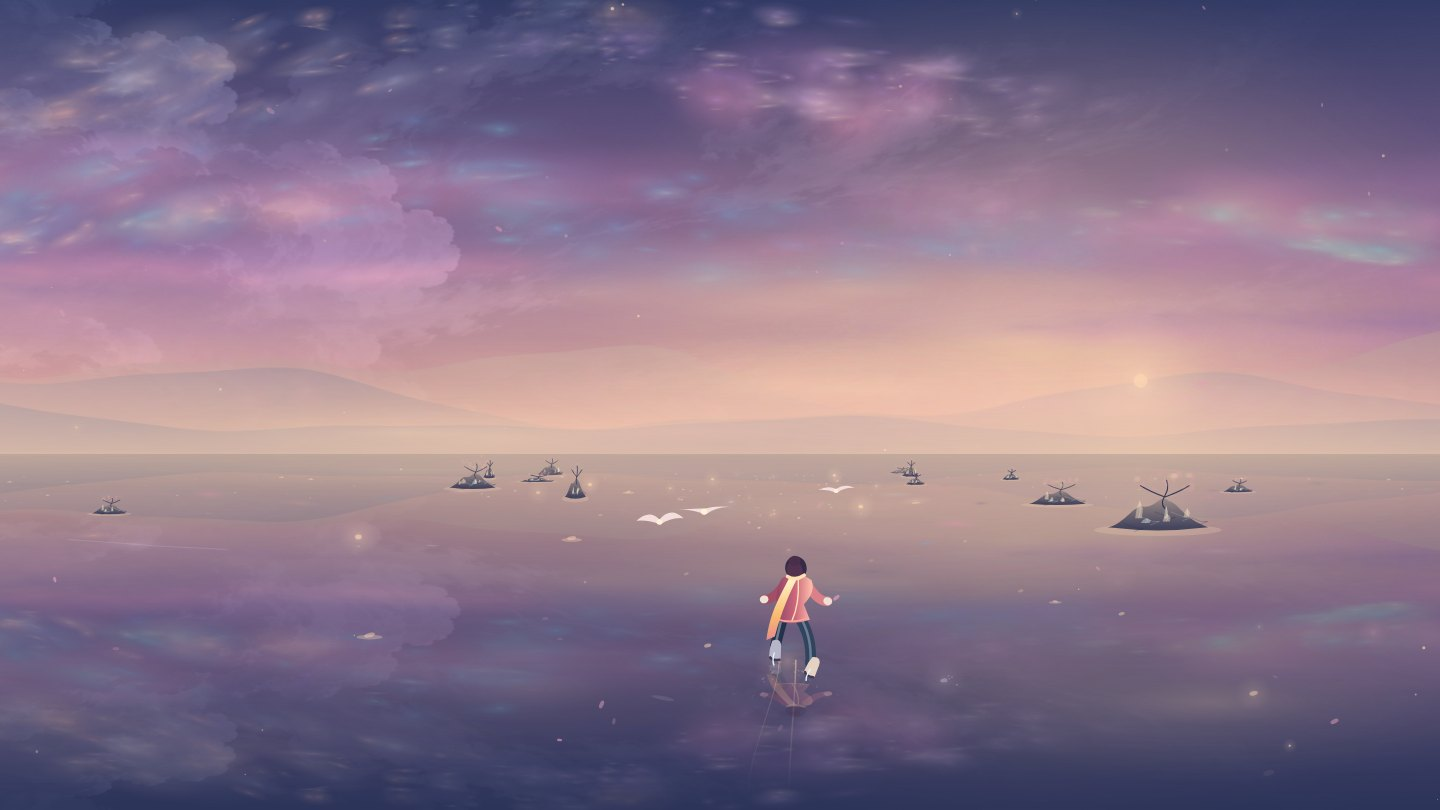
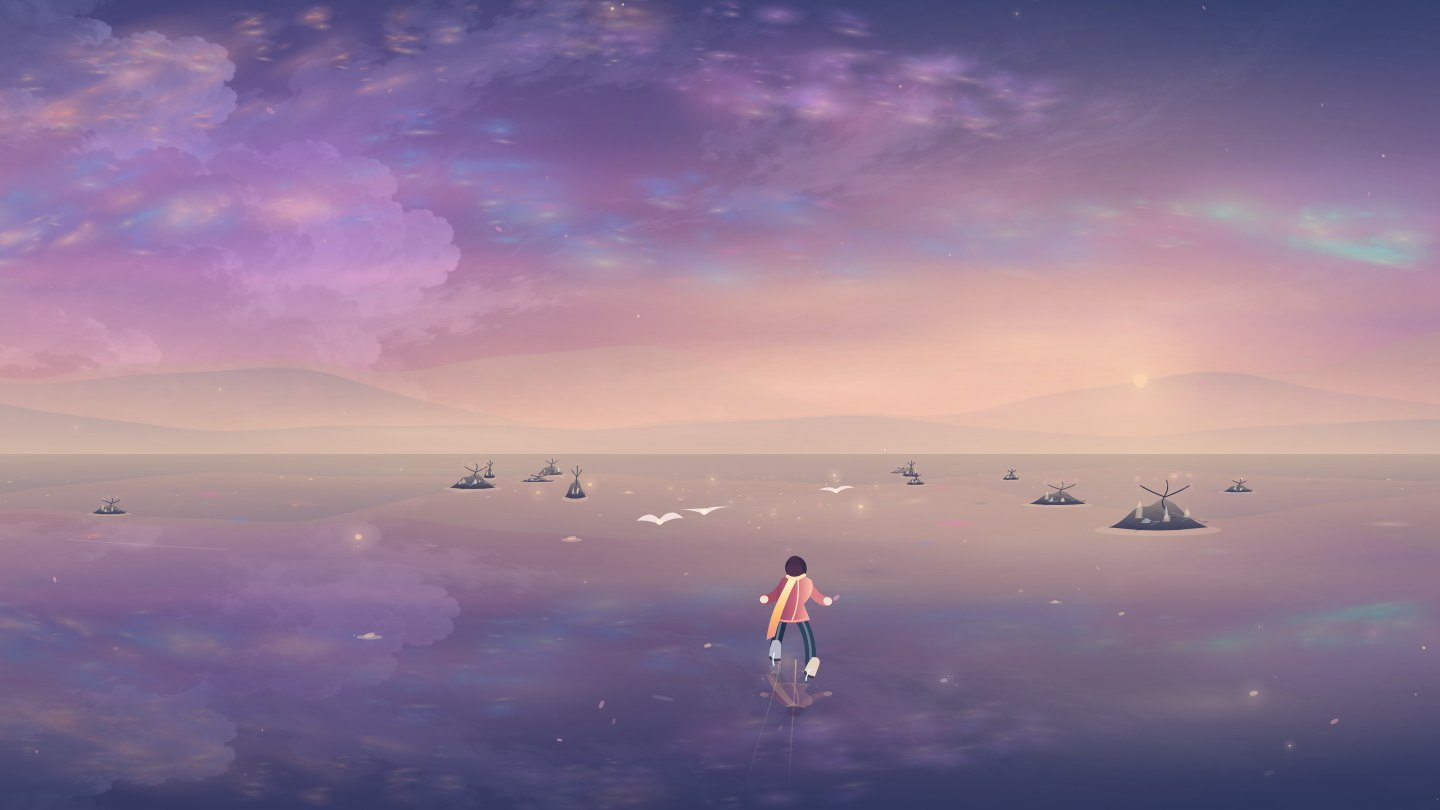
Enrich impressionist lighting and distinguish skating sound effects

diff --git a/index.html b/index.html
@@ -151,6 +151,7 @@ dialog p{color:var(--muted);font-size:13px;margin:8px 0 17px}
     <p><kbd>←</kbd> <kbd>→</kbd> 或左右拖动转向。<kbd>空格</kbd> 蹬冰，<kbd>↑</kbd> / <kbd>↓</kbd> 加速或刹停。触屏可上下拖动，或按住「加速」「刹停」。</p>
     <p><kbd>Enter</kbd> 换梦，<kbd>H</kbd> 观景，<kbd>P</kbd> 留影。靠近冰面上的光点，会遇见几句旅途中的话。</p>
     <p>松开按键后，你会凭惯性继续滑。按住刹停可以留在原地看风景。海棠、海雾、鲲与云海会依次出现。配乐会随场景变化，点右上角扬声器可以开关。</p>
+    <p><label><input type="checkbox" id="iceSound" checked> 冰面音效</label></p>
     <button class="chip" id="journal" type="button">滑行手记</button>
   </dialog>
 </main>
@@ -438,22 +439,37 @@ function paintSky(p) {
   return b;
 }
 const pigments = [
-  [[251,168,178],[255,210,156],[143,162,220],[174,118,190],[128,193,207],[252,226,184]],
-  [[245,174,152],[231,143,185],[117,161,217],[164,124,208],[120,204,198],[255,225,189]],
-  [[179,240,206],[107,185,235],[160,122,228],[249,173,193],[94,224,199],[249,227,169]],
-  [[255,192,143],[250,140,178],[133,164,241],[181,118,212],[148,211,209],[255,234,175]],
-  [[151,177,250],[208,136,227],[100,174,221],[245,158,180],[118,209,224],[255,220,160]]
+  [[252,151,182],[255,209,145],[114,144,224],[184,118,216],[100,200,214],[255,235,188]],
+  [[251,155,135],[241,119,180],[116,142,226],[175,119,222],[106,218,195],[255,221,175]],
+  [[151,255,206],[88,181,245],[172,111,246],[251,141,192],[70,230,213],[250,220,151]],
+  [[255,184,120],[248,109,165],[113,153,250],[181,104,221],[124,224,222],[255,233,172]],
+  [[127,158,250],[213,118,227],[85,180,233],[246,138,168],[104,224,213],[255,208,142]]
 ];
+const skyLighting = [
+  null,
+  {point:[.72,.72], veil:[.27,.38], tilt:-.13},
+  {point:[.76,.28], veil:[.31,.48], tilt:-.31},
+  {point:[.59,.66], veil:[.28,.34], tilt:-.21},
+  {point:[.81,.27], veil:[.36,.39], tilt:-.36}
+];
+function pigmentGlow(c,x,y,r,flatten,angle,color,alpha){
+  c.save();c.translate(x,y);c.rotate(angle);c.scale(1,flatten);
+  bloom(c,0,0,r,color,alpha);c.restore();
+}
 function paintedClouds(c,w,h,p){
   const colors=pigments[p.painting];
   // The same sky grain sits under each study, with its own colored cloud banks.
   if(art.complete&&art.naturalWidth){
-    c.save();c.globalAlpha=p.painting===3?.34:.22;c.globalCompositeOperation="luminosity";
+    c.save();c.globalAlpha=p.painting===3?.52:.36;c.globalCompositeOperation="luminosity";
     const sw=Math.min(art.naturalWidth,art.naturalHeight*w/h);
     const sh=Math.min(art.naturalHeight,sw*h/w);
     c.drawImage(art,(art.naturalWidth-sw)*hash(p.seed),0,sw,sh,0,0,w,h);c.restore();
   }
-  const banks=p.painting===3?9:7;
+  const {point,veil,tilt}=skyLighting[p.painting];
+  pigmentGlow(c,w*veil[0],h*veil[1],w*.54,.56,tilt,colors[3],.46);
+  pigmentGlow(c,w*(1-veil[0]*.54),h*.47,w*.42,.47,-tilt,colors[2],.39);
+  pigmentGlow(c,w*point[0],h*point[1],w*.44,.43,tilt,colors[0],.48);
+  const banks=p.painting===3?9:8;
   for(let bank=0;bank<banks;bank++){
     const seed=p.seed*29+bank*101;
     const x=w*(-.17+hash(seed)*1.26), y=h*(.14+hash(seed+7)*.68);
@@ -464,33 +480,46 @@ function paintedClouds(c,w,h,p){
       const bend=Math.sin(u*5.8+bank)*.38+Math.sin(u*12+bank*3)*.13;
       const cx=x+(u-.5)*span, cy=y+(bend+(v-.50)*crest)*thick;
       const r=span*(.012+hash(q+9)**2*.063);
-      const hue=blend(tone,accent,hash(q+12)*.68);
+      const hue=blend(tone,accent,hash(q+12)*.46);
       c.save();c.translate(cx,cy);c.rotate(-.17+.33*Math.cos(u*6+bank));c.scale(1,.20+hash(q+2)*.51);
-      bloom(c,0,0,r,hue,crest*(.14+hash(q+21)*.38));c.restore();
-      if(i%4===0){
-        const stroke=blend(hue,colors[5],.29+hash(q+34)*.39);
-        c.save();c.translate(cx,cy+thick*.09);c.rotate(-.17+hash(q+43)*.31);
-        c.scale(1,.12+hash(q+8)*.26);
-        bloom(c,0,0,r*.67,stroke,crest*.39);c.restore();
+      bloom(c,0,0,r,hue,crest*(.19+hash(q+21)*.39));c.restore();
+      if(i%3===0){
+        const angle=tilt+hash(q+43)*.38;
+        const warm=blend(hue,colors[5],.34+hash(q+34)*.43);
+        const shade=blend(hue,colors[2],.48);
+        pigmentGlow(c,cx-r*.09,cy-thick*.075,r*.85,.19+hash(q+8)*.31,angle,shade,crest*.29);
+        pigmentGlow(c,cx+r*.14,cy+thick*.10,r*.66,.15+hash(q+8)*.31,angle,warm,crest*.56);
+        for(let j=0;j<3;j++){
+          const bit=q+j*201, dx=(hash(bit+67)-.5)*r, dy=(hash(bit+17)-.5)*r*.44;
+          pigmentGlow(c,cx+dx,cy+dy,r*(.13+hash(bit+19)*.28),.32,angle,
+            colors[(bank+j+4)%colors.length],crest*(.22+hash(bit+97)*.30));
+        }
       }
     }
   }
+  c.save();c.globalCompositeOperation="screen";
+  pigmentGlow(c,w*point[0],h*point[1],w*.32,.37,tilt,colors[5],.38);
+  pigmentGlow(c,w*(point[0]-.15),h*(point[1]+.13),w*.33,.18,tilt,colors[1],.23);
+  c.restore();
 }
 function reflectedPigments(){
   const deep=H-horizon, mix=smooth(transition);
-  const strength=lerp(Number(Boolean(previous.painting)),Number(Boolean(current.painting)),mix);
-  if(strength<.005)return;
+  const strength=lerp(previous.painting?1:.33,current.painting?1:.33,mix);
   const before=pigments[previous.painting||0], after=pigments[current.painting||0];
-  for(let i=0;i<40;i++){
+  for(let i=0;i<52;i++){
     const offset=hash(i+612)*880-distance, z=66+wrap(offset,880);
     const seed=i+Math.floor(offset/880)*47, p=project((hash(seed+83)-.5)*640,z);
     const width=(22+hash(seed+128)*108)*p.scale;
     if(p.x+width<0||p.x-width>W)continue;
     const amount=strength*smooth((z-66)/48)*smooth((930-z)/520);
     const color=blend(before[i%6],after[i%6],mix);
-    ctx.save();ctx.translate(p.x,p.y);ctx.rotate(-.12+hash(seed+9)*.19);ctx.scale(1,.12+hash(seed+34)*.14);
-    bloom(ctx,0,0,width,color,amount*(.18+hash(seed+217)*.35));ctx.restore();
-    if(i%5===0) ellipse(ctx,p.x,p.y+deep*.006,width*.24,.75+p.scale,rgba(color,amount*.36),-.09);
+    const angle=-.15+hash(seed+9)*.24;
+    pigmentGlow(ctx,p.x,p.y,width,.12+hash(seed+34)*.14,angle,color,amount*(.24+hash(seed+217)*.35));
+    if(i%3===0){
+      const tint=blend(before[(i+3)%6],after[(i+3)%6],mix);
+      pigmentGlow(ctx,p.x+width*.18,p.y+deep*.011,width*.38,.15,-angle,tint,amount*.52);
+      ellipse(ctx,p.x-width*.21,p.y+deep*.006,width*.11,.63+p.scale,rgba(color,amount*.46),angle);
+    }
   }
 }
 const encounters = [
@@ -1016,12 +1045,29 @@ function traveler(c,x,y,scale,reflection){
   line("#ffdeb1",3,shoulderX-7,shoulderY-3,shoulderX,shoulderY+1,shoulderX+7,shoulderY-4);
   c.restore();
 }
+const iceRings=[];
+function drawIceRings(light){
+  for(let i=iceRings.length-1;i>=0;i--){
+    const {x,z,at}=iceRings[i], age=(t-at)/1.5;
+    if(age>=1){iceRings.splice(i,1);continue;}
+    const depth=z-distance;
+    if(depth<57)continue;
+    const p=project(x,depth), r=(4+age*94)*p.scale;
+    const fade=(1-age)**2;
+    if(!reduced){
+      ctx.beginPath();ctx.ellipse(p.x,p.y,r,r*.24,0,0,TAU);
+      ctx.strokeStyle=rgba(light,fade*.34);ctx.lineWidth=.9;ctx.stroke();
+    }
+    bloom(ctx,p.x,p.y,7+age*22,light,fade*.30);
+  }
+}
 function lights(light,px,py){
   const world=distance;
   for(let i=0;i<7;i++){
     const offset=i*153+99-world, z=63+wrap(offset,1071);
     const key=i+Math.floor(offset/1071)*7;
-    const p=project((hash(key+35)-.46)*210,z);
+    const worldX=(hash(key+35)-.46)*210;
+    const p=project(worldX,z);
     const x=p.x, y=p.y;
     const size=.9+p.scale*7, b=(.58+.25*Math.sin(t*2+i*3))*smooth((z-63)/17);
     if(seen.has(key)) continue;
@@ -1030,7 +1076,9 @@ function lights(light,px,py){
     ellipse(ctx,x,y+size*3,size*.62,size*.27,rgba(light,b*.35));
     if(start&&!viewingDialog()&&Math.abs(x-px)<Math.max(32,W*.037)&&Math.abs(y-py)<20){
       seen.add(key);if(seen.size>60) seen.delete(seen.values().next().value);
-      announce(poems[found++%poems.length]);note(found%5);
+      iceRings.push({x:worldX,z:distance+z,at:t});
+      announce(poems[found++%poems.length]);
+      if($("iceSound").checked)note(found%5);
     }
   }
 }
@@ -1074,6 +1122,7 @@ function render(ms) {
   particles(current,light);
   const px=W*.54+heading*W*(reduced?.009:.022);
   const py=horizon+(H-horizon)*(.61-clamp((velocity-.84)*.047,-.09,.08));
+  drawIceRings(light);
   lights(light,px,py);
   const scale=clamp(Math.min(W/1020,H/680),.64,1.32);
   trail(px,py,scale,light);
@@ -1086,6 +1135,7 @@ function render(ms) {
     const weather = !routeMode && !dreamTheme && current.index===0 && timeInDream>25 ? "薄暮 · 湖雾" : current.weather;
     if($("weather").textContent!==weather) $("weather").textContent=weather;
   }
+  updateSkateSound(paused,throttle);
   scoreTick();
   lastPose={name:current.name};
   requestAnimationFrame(render);
@@ -1095,7 +1145,7 @@ function pushOff(){
   if(kick>.22)return;
   kick=1;
   velocity=Math.min(3.15,Math.max(.85,velocity)+.8);
-  note(2);
+  skateBurst("push");
 }
 function toggleView(){
   clean=!clean;document.body.classList.toggle("clean",clean);
@@ -1124,6 +1174,116 @@ function savePhoto(){
   announce("这一刻，留在了冰面上，也收进了手记。");
 }
 let audio=null, ambient=null, windFilter=null, audioOn=false, audioRequest=0, scoreLayer=null;
+let skateAudio=null, skateCue="glide", nextSkateUpdate=0, nextSkateBurst=0;
+const skateSounds={
+  edge:{duration:.36,volume:.69,pan:.53},
+  push:{duration:.33,volume:.81,pan:.17},
+  rush:{duration:.94,volume:.73,pan:0},
+  brake:{duration:.62,volume:.78,pan:.24}
+};
+function renderSkateSample(kind, sampleRate, data){
+  const duration=data.length/sampleRate;
+  const lowRate=1-Math.exp(-TAU*330/sampleRate), midRate=1-Math.exp(-TAU*1530/sampleRate);
+  const windRate=1-Math.exp(-TAU*125/sampleRate);
+  let seed=617, low=0, mid=0, wind=0, phase=0;
+  const pulse=(time,at,decay)=>time<at?0:Math.exp(-(time-at)/decay)*Math.min(1,(time-at)*1800);
+  for(let i=0;i<data.length;i++){
+    const time=i/sampleRate, progress=time/duration;
+    seed=(Math.imul(seed,1664525)+1013904223)>>>0;
+    const noise=seed/2147483648-1;
+    low+=(noise-low)*lowRate;
+    mid+=(noise-mid)*midRate;
+    wind+=(low-wind)*windRate;
+    const grain=mid-low, frost=noise-mid;
+    let sample;
+    switch(kind){
+      case "edge": {
+        phase+=TAU*(1880-570*progress+40*Math.sin(TAU*14*time))/sampleRate;
+        const scrape=.60+.40*Math.sin(TAU*41*time)**2;
+        sample=(grain*.40+Math.sin(phase)*.070+Math.sin(phase*1.47)*.021)*scrape*Math.sin(Math.PI*progress)**1.4;
+        break;
+      }
+      case "push": {
+        const chips=pulse(time,.006,.025)+.58*pulse(time,.061,.022)+.36*pulse(time,.119,.021);
+        const crystal=Math.sin(TAU*3140*time)*.040+Math.sin(TAU*4930*time)*.020;
+        sample=(frost*.44+grain*.10+crystal)*chips;
+        break;
+      }
+      case "rush": {
+        const swell=Math.sin(Math.PI*progress)**1.7;
+        sample=(wind*1.65+low*.24)*swell*(.85+.15*Math.sin(TAU*7*time));
+        break;
+      }
+      case "brake": {
+        phase+=TAU*(195-108*progress)/sampleRate;
+        const chatter=.38+.62*Math.sin(TAU*(19*time-10*time*time))**4;
+        const grit=grain*(1-progress)*.53+low*.57+Math.sin(phase)*.067;
+        sample=grit*chatter*Math.min(1,time*46)*(1-progress)**1.45;
+        break;
+      }
+    }
+    data[i]=sample*Math.min(1,(data.length-i-1)/(sampleRate*.018));
+  }
+}
+function setupSkateAudio(){
+  const buffer=audio.createBuffer(1,audio.sampleRate*2,audio.sampleRate);
+  const data=buffer.getChannelData(0);
+  for(let i=0;i<data.length;i++){
+    const seam=Math.min(1,i/160,(data.length-1-i)/160);
+    data[i]=(Math.random()*2-1)*seam;
+  }
+  const samples={};
+  for(const [kind,{duration}] of Object.entries(skateSounds)){
+    const sample=audio.createBuffer(1,Math.round(audio.sampleRate*duration),audio.sampleRate);
+    renderSkateSample(kind,audio.sampleRate,sample.getChannelData(0));
+    samples[kind]=sample;
+  }
+  const source=audio.createBufferSource(), filter=audio.createBiquadFilter();
+  const gain=audio.createGain(), bus=audio.createGain();
+  const pan=audio.createStereoPanner?.();
+  source.buffer=buffer;source.loop=true;
+  filter.type="bandpass";filter.Q.value=.8;
+  gain.gain.value=0;bus.gain.value=$("iceSound").checked?1:0;
+  source.connect(filter).connect(gain);
+  if(pan)gain.connect(pan).connect(bus);
+  else gain.connect(bus);
+  bus.connect(ambient);
+  source.start();
+  skateAudio={samples,filter,gain,pan,bus};
+}
+function skateBurst(kind){
+  if(!audioOn||audio.state!=="running"||!skateAudio||!$("iceSound").checked)return;
+  const now=audio.currentTime;
+  if(now<nextSkateBurst&&kind!=="push")return;
+  nextSkateBurst=now+.22;
+  const {volume,pan}=skateSounds[kind];
+  const source=audio.createBufferSource(), gain=audio.createGain();
+  const direction=pan&&audio.createStereoPanner?.();
+  source.buffer=skateAudio.samples[kind];
+  gain.gain.value=volume;
+  source.connect(gain);
+  if(direction){
+    direction.pan.value=edgeLean*pan;
+    gain.connect(direction).connect(skateAudio.bus);
+  }else gain.connect(skateAudio.bus);
+  source.onended=()=>{source.disconnect();gain.disconnect();if(direction)direction.disconnect();};
+  source.start(now);
+}
+function updateSkateSound(paused,throttle){
+  if(!skateAudio||!audioOn||audio.state!=="running"||audio.currentTime<nextSkateUpdate)return;
+  const now=audio.currentTime;
+  nextSkateUpdate=now+.032;
+  const speed=start&&!paused?clamp(velocity/2.4,0,1):0;
+  const edge=Math.abs(edgeLean);
+  const cue=speed<.06?"glide":brake>.33?"brake":throttle>.55?"rush":edge>(skateCue==="edge"?.34:.51)?"edge":"glide";
+  if(cue!==skateCue && cue!=="glide")skateBurst(cue);
+  skateCue=cue;
+  const stroke=.84+.16*Math.sin(stridePhase*2)**2;
+  const pressure=.023+speed*.038+edge*.055+brake*.034;
+  skateAudio.gain.gain.setTargetAtTime(speed**.75*pressure*stroke,now,paused?.07:.11);
+  skateAudio.filter.frequency.setTargetAtTime(510+speed*540+edge*470-brake*130,now,.13);
+  skateAudio.pan?.pan.setTargetAtTime(edgeLean*.28,now,.14);
+}
 const scores = [
   {chord:[48,55,60,64], melody:[72,null,76,79,76,null,74,72], beat:1.48, wind:590, voice:"sine"},
   {chord:[45,52,57,59], melody:[69,null,71,null,64,67,null,64], beat:1.93, wind:220, voice:"sine"},
@@ -1184,9 +1344,9 @@ function note(index){
   if(!audioOn||!audio||audio.state!=="running")return;
   const osc=audio.createOscillator(), envelope=audio.createGain(), now=audio.currentTime;
   osc.type="sine";osc.frequency.value=[261.63,329.63,392,440,523.25][index];
-  envelope.gain.setValueAtTime(.0001,now);envelope.gain.exponentialRampToValueAtTime(.095,now+.16);
+  envelope.gain.setValueAtTime(.0001,now);envelope.gain.exponentialRampToValueAtTime(.15,now+.16);
   envelope.gain.exponentialRampToValueAtTime(.0001,now+1.9);
-  osc.connect(envelope).connect(audio.destination);osc.start(now);osc.stop(now+2);
+  osc.connect(envelope).connect(ambient);osc.start(now);osc.stop(now+2);
 }
 function syncSoundButton(){
   $("sound").setAttribute("aria-pressed",String(audioOn));
@@ -1207,6 +1367,7 @@ async function startAudio(){
       windFilter=audio.createBiquadFilter();
       wind.buffer=buffer;wind.loop=true;windFilter.type="lowpass";windFilter.frequency.value=410;
       wind.connect(windFilter).connect(ambient);wind.start();
+      setupSkateAudio();
     }
     await audio.resume();
     if(request!==audioRequest)return;
@@ -1264,6 +1425,9 @@ $("resumeRoute").onclick=()=>{
 $("dream").onclick=openDream;
 $("help").onclick=()=>$("helpDialog").showModal();
 $("sound").onclick=toggleSound;
+$("iceSound").onchange=()=>{
+  if(skateAudio) skateAudio.bus.gain.setTargetAtTime($("iceSound").checked?1:0,audio.currentTime,.06);
+};
 $("view").onclick=toggleView;
 $("photo").onclick=savePhoto;
 $("push").onclick=pushOff;

diff --git a/README.md b/README.md
@@ -32,7 +32,7 @@
 
 飞鸟会贴着海雾陪你飞一段，蝴蝶会在云海里绕过肩头，萤火虫会追着冰刀的微光。它们各有自己的去处。全程有 24 段旁白，短叙事与古诗词原句交替出现。每段停留约 8–15 秒，随后慢慢淡出，再留一小段空白。加速也能读完每一段，原句出处可在滑行手记里回看。
 
-海雾以珊瑚粉与灰蓝交叠，北冥有青绿、淡紫和暖金的极光，云海叠着杏金与玫瑰色，星原则有靛蓝、藤紫和零星暖光。冰面会映出这些颜色，也有随滑行经过脚下的碎色。
+海雾以珊瑚粉与灰蓝交叠，北冥有青绿、淡紫和暖金的极光，云海叠着杏金与玫瑰色，星原则有靛蓝、藤紫和零星暖光。云层的暖色亮边和蓝紫色阴影交叠，冰面把天空的颜色映成一层随滑行掠过的碎光。
 
 ## 操作
 
@@ -52,6 +52,12 @@
 ## 随风景变化的配乐
 
 首次点按或按键后，配乐开始播放。海棠渡的清亮旋律会慢慢淡入海雾里的低音。北冥的音色更深，云海的旋律更轻，星夜的音符更疏。换景时和声交叠，风声也会随之变化。
+
+## 冰面的声音
+
+巡航时，冰刀有一层很轻的摩擦声。转弯时能听到带一点金属质感的刮冰声，声音会偏向转弯的一侧。空格蹬冰是几颗碎霜接连弹开的清脆声，向前冲刺会带起一阵低沉的风，向后拖动或按 ↓ 刹停则会听到逐渐变轻的颗粒摩擦。经过冰面光点会响起轻音，冰上留下一圈慢慢散开的光。
+
+右上角扬声器可以关闭全部声音。想只听配乐，可在「？」里取消勾选「冰面音效」。
 
 ## 项目结构
 
